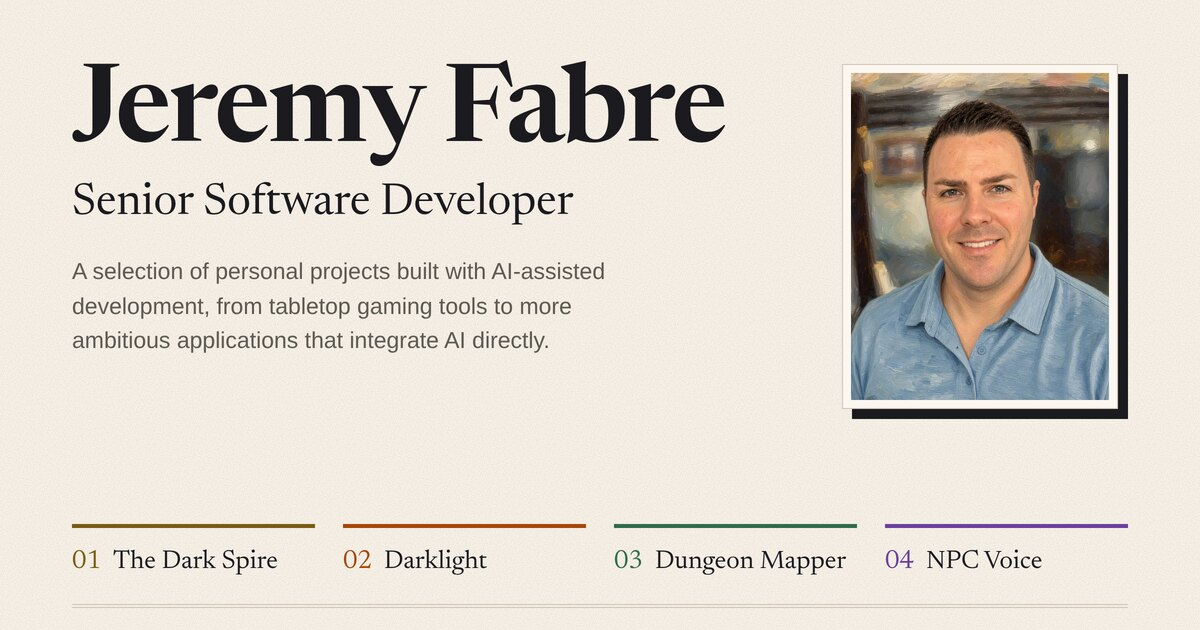
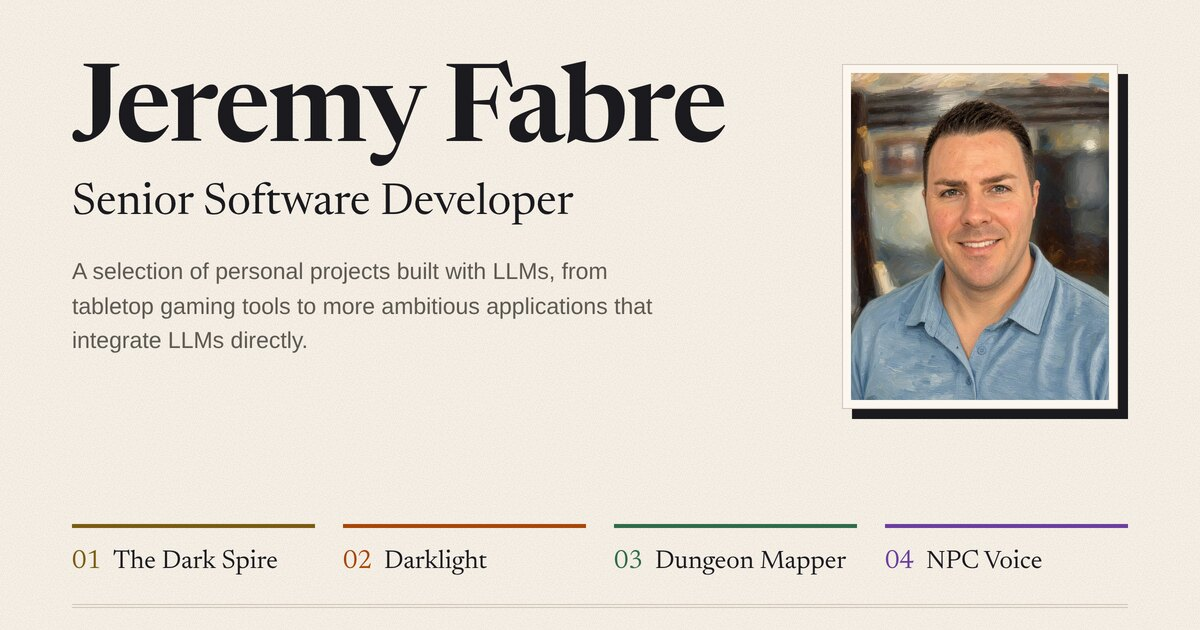
feat(site): deck says the projects are built with LLMs

Changed region(s): [[0.0617, 0.4222, 0.555, 0.573]]

diff --git a/site/index.html b/site/index.html
@@ -4,7 +4,7 @@
   <meta charset="utf-8">
   <meta name="viewport" content="width=device-width, initial-scale=1">
   <title>Jeremy Fabre — Senior Software Developer</title>
-  <meta name="description" content="A selection of personal projects built with AI-assisted development, from tabletop gaming tools to more ambitious applications that integrate AI directly.">
+  <meta name="description" content="A selection of personal projects built with LLMs, from tabletop gaming tools to more ambitious applications that integrate LLMs directly.">
   <meta name="color-scheme" content="light dark">
   <meta name="theme-color" content="#f6f0e6" media="(prefers-color-scheme: light)">
   <meta name="theme-color" content="#1a1612" media="(prefers-color-scheme: dark)">
@@ -55,7 +55,7 @@
   <meta property="og:type" content="website">
   <meta property="og:site_name" content="Jeremy Fabre">
   <meta property="og:title" content="Jeremy Fabre — Senior Software Developer">
-  <meta property="og:description" content="A selection of personal projects built with AI-assisted development, from tabletop gaming tools to more ambitious applications that integrate AI directly.">
+  <meta property="og:description" content="A selection of personal projects built with LLMs, from tabletop gaming tools to more ambitious applications that integrate LLMs directly.">
   <meta property="og:url" content="https://jfabre.github.io/">
   <meta property="og:image" content="https://jfabre.github.io/assets/social/preview.jpg">
   <meta property="og:image:type" content="image/jpeg">
@@ -80,7 +80,7 @@
     <header class="opener">
       <h1 class="name">Jeremy Fabre</h1>
       <p class="role">Senior Software Developer</p>
-      <p class="deck">A selection of personal projects built with AI-assisted development, from tabletop gaming tools to more ambitious applications that integrate AI directly.</p>
+      <p class="deck">A selection of personal projects built with LLMs, from tabletop gaming tools to more ambitious applications that integrate LLMs directly.</p>
       <ul class="social">
         <li><a class="social-link" href="https://www.linkedin.com/in/jeremy-fabre-977b1b53/" rel="me noopener noreferrer" target="_blank"><svg aria-hidden="true" viewBox="0 0 24 24" width="20" height="20" fill="currentColor"><path d="M20.45 20.45h-3.55v-5.57c0-1.33-.03-3.04-1.85-3.04-1.86 0-2.14 1.45-2.14 2.94v5.67H9.35V9h3.41v1.56h.05c.48-.9 1.64-1.85 3.37-1.85 3.6 0 4.27 2.37 4.27 5.46v6.28zM5.34 7.43a2.06 2.06 0 1 1 0-4.12 2.06 2.06 0 0 1 0 4.12zM7.12 20.45H3.56V9h3.56v11.45zM22.22 0H1.77C.79 0 0 .77 0 1.73v20.54C0 23.23.79 24 1.77 24h20.45c.98 0 1.78-.77 1.78-1.73V1.73C24 .77 23.2 0 22.22 0z"/></svg><span>LinkedIn</span></a></li>
         <li><a class="social-link" href="https://github.com/jfabre" rel="me noopener noreferrer" target="_blank"><svg aria-hidden="true" viewBox="0 0 24 24" width="20" height="20" fill="currentColor"><path d="M12 .3a12 12 0 0 0-3.8 23.38c.6.12.83-.26.83-.57v-2c-3.34.73-4.04-1.61-4.04-1.61-.55-1.39-1.34-1.76-1.34-1.76-1.08-.74.09-.73.09-.73 1.2.09 1.83 1.24 1.83 1.24 1.07 1.83 2.8 1.3 3.49 1 .1-.78.42-1.31.76-1.61-2.67-.3-5.47-1.33-5.47-5.93 0-1.31.47-2.38 1.24-3.22-.14-.3-.54-1.52.1-3.18 0 0 1-.32 3.3 1.23a11.5 11.5 0 0 1 6 0c2.28-1.55 3.29-1.23 3.29-1.23.64 1.66.24 2.88.12 3.18a4.65 4.65 0 0 1 1.23 3.22c0 4.61-2.8 5.63-5.48 5.92.42.36.81 1.1.81 2.22v3.29c0 .32.21.7.82.57A12 12 0 0 0 12 .3"/></svg><span>GitHub</span></a></li>

diff --git a/demo/index.html b/demo/index.html
@@ -68,7 +68,7 @@
     <main class="page-main">
       <section class="projects" id="projects" aria-labelledby="projects-heading">
         <h2 class="section-heading" id="projects-heading">Selected projects</h2>
-        <p class="section-intro">A selection of personal projects built with AI-assisted development, from tabletop gaming tools to more ambitious applications that integrate AI directly.</p>
+        <p class="section-intro">A selection of personal projects built with LLMs, from tabletop gaming tools to more ambitious applications that integrate LLMs directly.</p>
         <ol class="project-list">
           <li>
             <article class="project" id="project-shadowdark-sheet" data-project="shadowdark-sheet" data-title="The Dark Spire — TaleSpire Character Sheet" data-description="A digital Shadowdark character sheet for TaleSpire and standalone browsers, bringing character stats, inventory, spells, and dice-roll integration together." data-ai-note="Built with AI-assisted development.">

diff --git a/demo/content.js b/demo/content.js
@@ -6,7 +6,7 @@ export const identity = {
 
 export const section = {
   heading: 'Selected projects',
-  intro: 'A selection of personal projects built with AI-assisted development, from tabletop gaming tools to more ambitious applications that integrate AI directly.',
+  intro: 'A selection of personal projects built with LLMs, from tabletop gaming tools to more ambitious applications that integrate LLMs directly.',
 };
 
 export const contact = {
